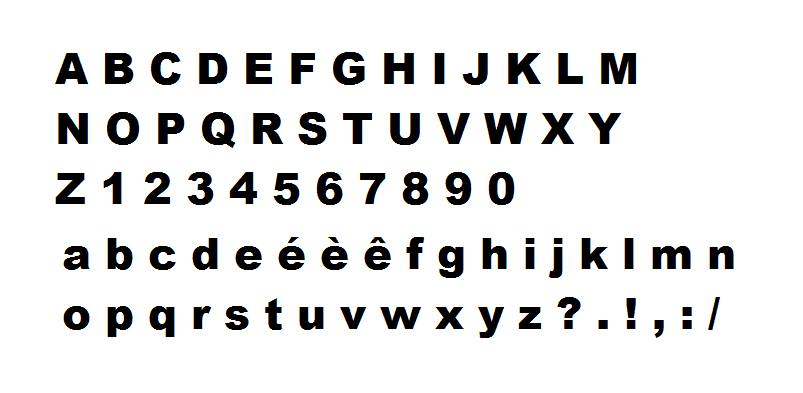
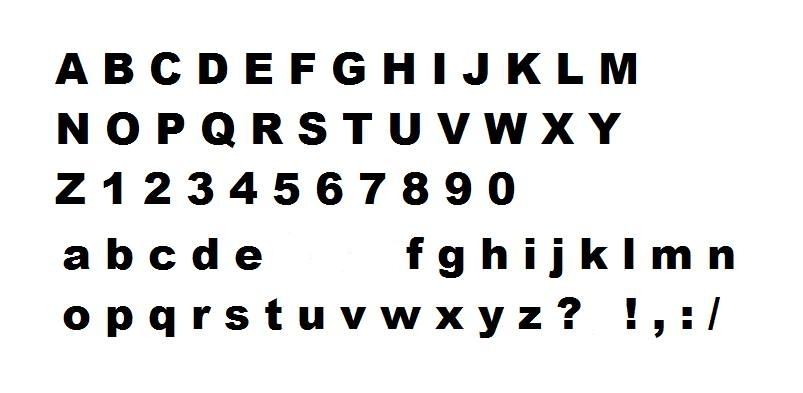
Maj : reconnait bien la fusion

Changed region(s): [[0.3425, 0.6107, 0.4981, 0.7023], [0.7472, 0.7939, 0.7783, 0.855]]

diff --git a/main.cpp b/main.cpp
@@ -5,6 +5,7 @@
 #include <iomanip>
 #include <vector>
 #include <sstream>
+#include <fstream>
 
 using namespace cimg_library;
 using namespace std;
@@ -215,11 +216,12 @@ void loadSamplePolice(){
 	CImg<unsigned char> imgcopy(image);
 	vector<vector<int> > caracteres = detection_rectangles();
 	caracteres = triRectangles(caracteres);
+	caracteres = fusionRectangle(caracteres);
 
-	char* alphabet = "ABCDEFGHIJKLMNOPQRSTUVWXYZ1234567890abcdeéèêfghijklmnopqrstuvwxyz?.!,:/";
+	char* alphabet = "ABCDEFGHIJKLMNOPQRSTUVWXYZ1234567890abcdefghijklmnopqrstuvwxyz?!,:/";
 	for(int i = 0; i < caracteres.size(); i++){
-
         vector<vector<int> > mcaractere = matrixBW(imgcopy,caracteres[i][0],caracteres[i][1],caracteres[i][2],caracteres[i][3]);
+
         Caractere caractere(alphabet[i],mcaractere);
         objetsCaractere.push_back(caractere);
 
@@ -246,13 +248,13 @@ string detectFromImage(string path){
         char caractere = '?';
         vector<vector<int> > mcaractere = matrixBW(imgcopy,caracteres[i][0],caracteres[i][1],caracteres[i][2],caracteres[i][3]);
 
-        for(int j=0; j < GRID_SIZE; j++) {
+        /*for(int j=0; j < GRID_SIZE; j++) {
             for(int i=0; i < GRID_SIZE; i++) {
                 std::cout << mcaractere[i][j];
             }
             std::cout << std::endl;
         }
-        std::cout << std::endl;
+        std::cout << std::endl;*/
 
         int best = 0;
         for(int a = 0; a < objetsCaractere.size(); a++){
@@ -291,12 +293,40 @@ vector<vector<int> > triRectangles(vector<vector<int> > rectangles){
         rectangle.push_back(rectangles[i][3]);
         if(tri.empty())
             tri.push_back(rectangle);
-        else{
-        int j,index = tri.size();
+        /*else{
+            int j,index = tri.size(),y1 = tri[tri.size()-1][1], y2 = tri[tri.size()-1][3];
             for(j = tri.size()-1; j >= 0; j--){
                 if(rectangle[3] < tri[j][1] || (rectangle[1] <= tri[j][3] && rectangle[2] <= tri[j][0])){
                     index = j;
                 }
+            }
+            if(index == tri.size()){
+                tri.push_back(rectangle);
+            }
+            else{
+                tri.insert(tri.begin()+index, rectangle);
+            }
+        }*/
+        else{
+            int index = 0, y1 = tri[0][1], y2 = tri[0][3], indexligne = 0, exindex = 0;
+            for(int j = 0; j < tri.size(); j++){
+                if(tri[j][1] > y2){
+                    y1 = tri[j][1];
+                    y2 = tri[j][3];
+                    indexligne = j;
+                    exindex = index;
+                }
+                if(tri[j][1] < y1){
+                    y1 = tri[j][1];
+                    j = indexligne;
+                    index = exindex;
+                }
+                if(tri[j][3] > y2){
+                    y2 = tri[j][3];
+                    j = indexligne;
+                    index = exindex;
+                }
+                if( rectangle[1] > y2 || (rectangle[3] > y1 && rectangle[0] > tri[j][2]))  index = j+1;
             }
             if(index == tri.size()){
                 tri.push_back(rectangle);
